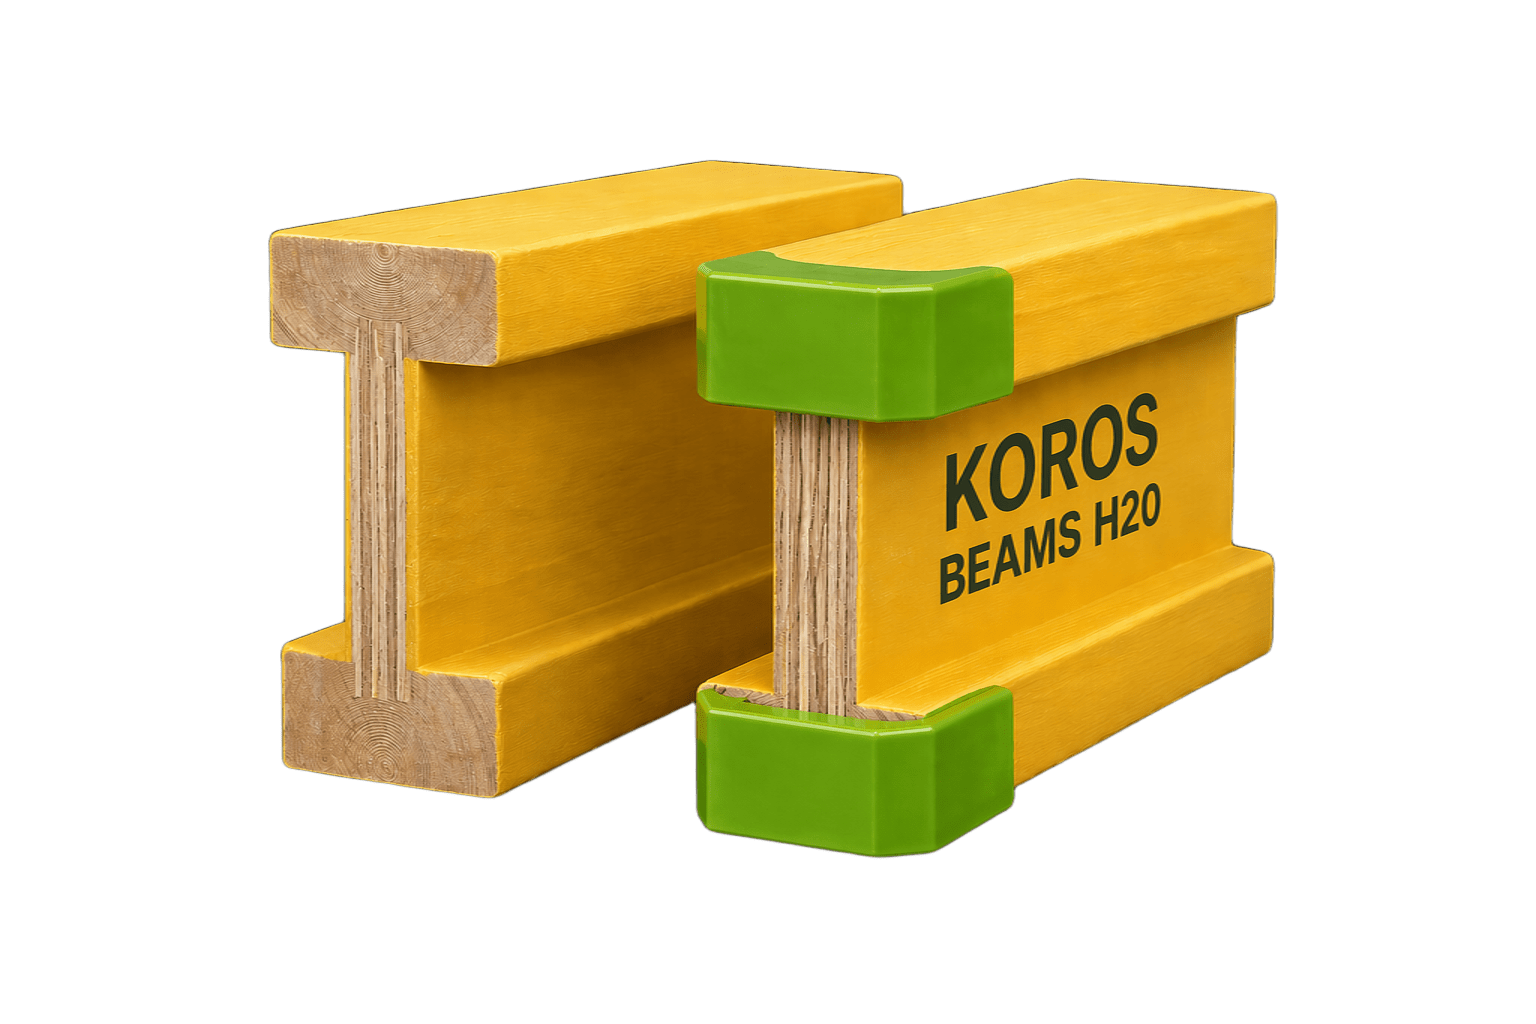
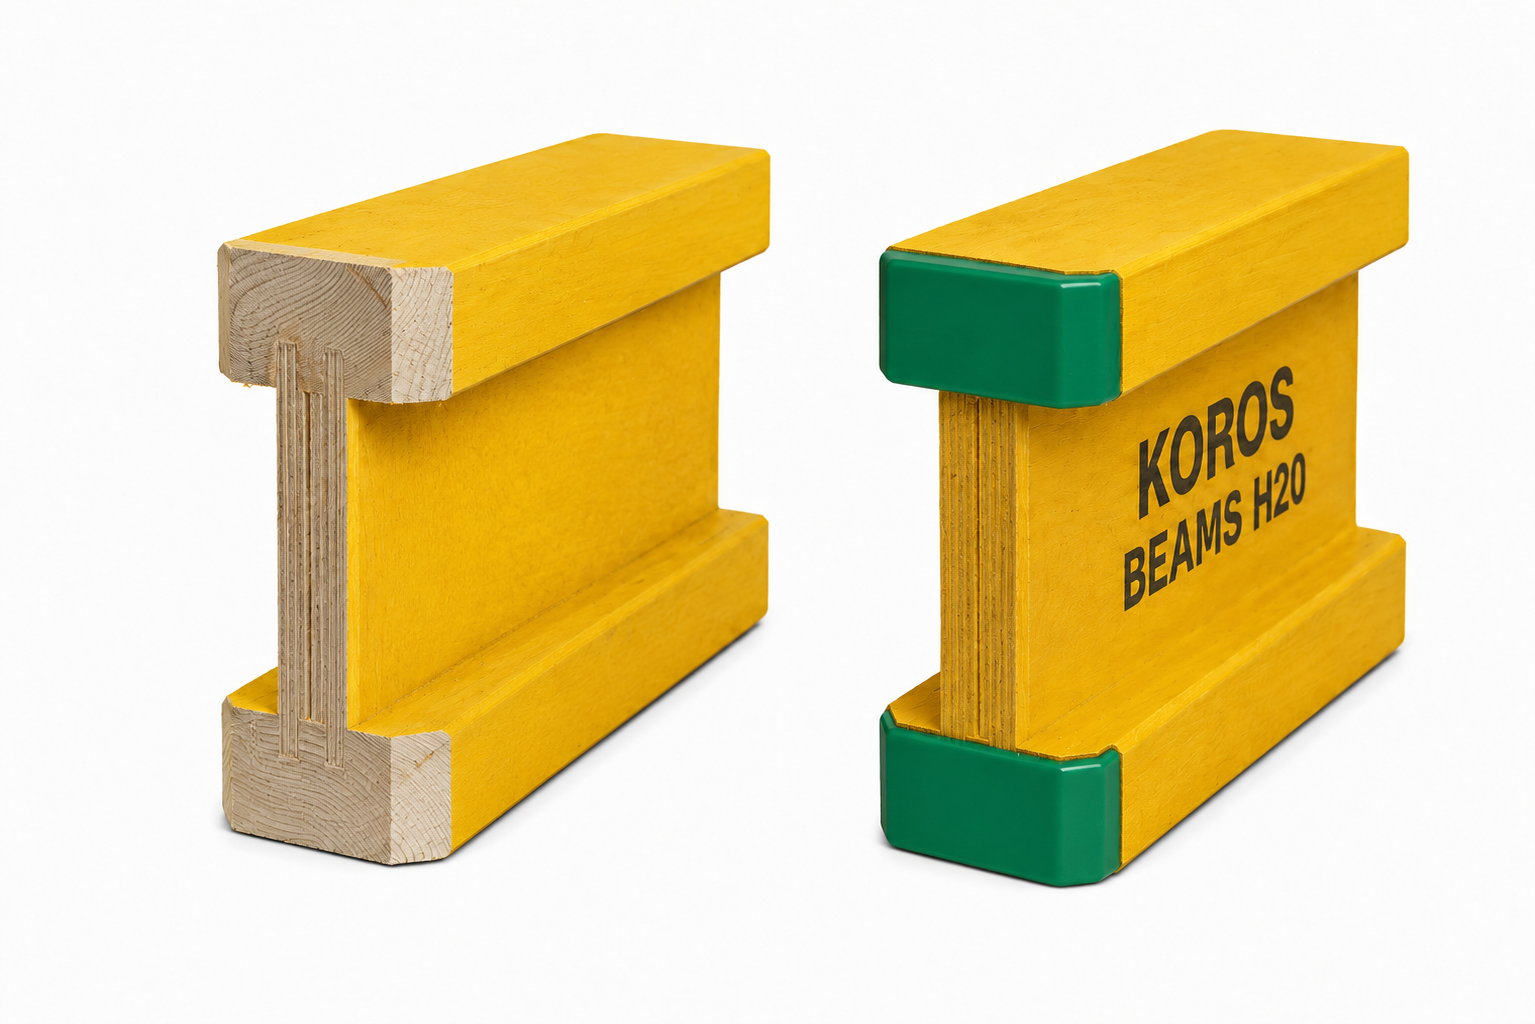
Replace H20 Pro third product image

diff --git a/catalog/index.html b/catalog/index.html
@@ -169,8 +169,8 @@
 <button class="koros-product-gallery__thumb" type="button" data-gallery-thumb data-src="/images/product-bdk-pro2.png" aria-label="Фото 2" data-i18n-aria-label="prod.gallery.photo2" aria-current="false">
 <img src="/images/product-bdk-pro2.png" alt="" loading="lazy"/>
 </button>
-<button class="koros-product-gallery__thumb" type="button" data-gallery-thumb data-src="/images/bdk-cross-section.png" aria-label="Фото 3" data-i18n-aria-label="prod.gallery.photo3" aria-current="false">
-<img src="/images/bdk-cross-section.png" alt="" loading="lazy"/>
+<button class="koros-product-gallery__thumb" type="button" data-gallery-thumb data-src="/images/product-bdk-pro3.png" aria-label="Фото 3" data-i18n-aria-label="prod.gallery.photo3" aria-current="false">
+<img src="/images/product-bdk-pro3.png" alt="" loading="lazy"/>
 </button>
 </div>
 </div>
